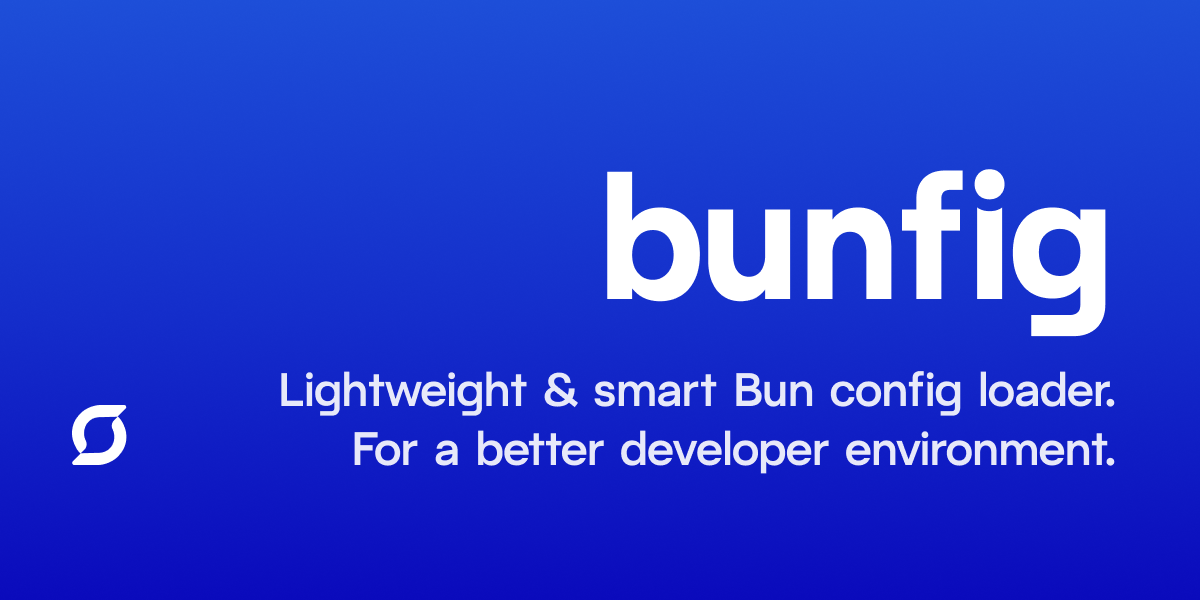
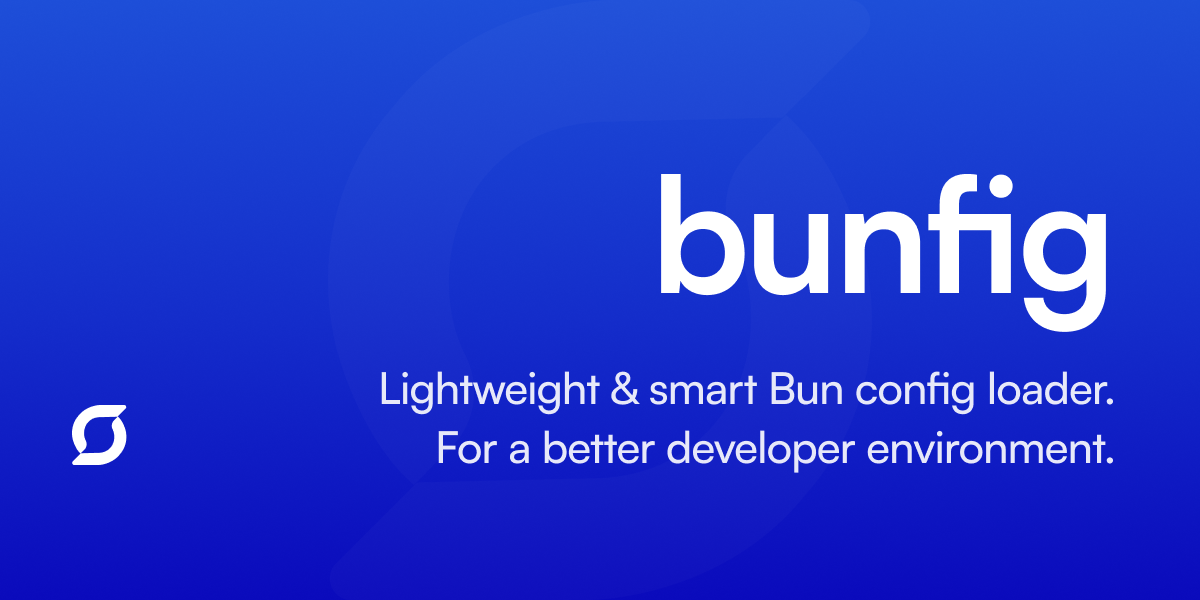
chore: update project meta info

Changed region(s): [[0.4933, 0.27, 0.925, 0.57], [0.2158, 0.6, 0.925, 0.69], [0.2775, 0.72, 0.925, 0.78]]

diff --git a/README.md b/README.md
@@ -1,10 +1,14 @@
-<p align="center"><img src="https://github.com/stacksjs/bunfig/blob/main/.github/art/cover.png?raw=true" alt="Social Card of this repo"></p>
+<p align="center"><img src="https://github.com/stacksjs/bunfig/blob/main/.github/art/cover.jpg?raw=true" alt="Social Card of this repo"></p>
 
 [![npm version][npm-version-src]][npm-version-href]
 [![GitHub Actions][github-actions-src]][github-actions-href]
 [![Commitizen friendly](https://img.shields.io/badge/commitizen-friendly-brightgreen.svg)](http://commitizen.github.io/cz-cli/)
 <!-- [![npm downloads][npm-downloads-src]][npm-downloads-href] -->
 <!-- [![Codecov][codecov-src]][codecov-href] -->
+
+# Bunfig
+
+> Smart configuration loader for libraries, apps, and CLIs built utilizing Bun.
 
 ## Features
 
